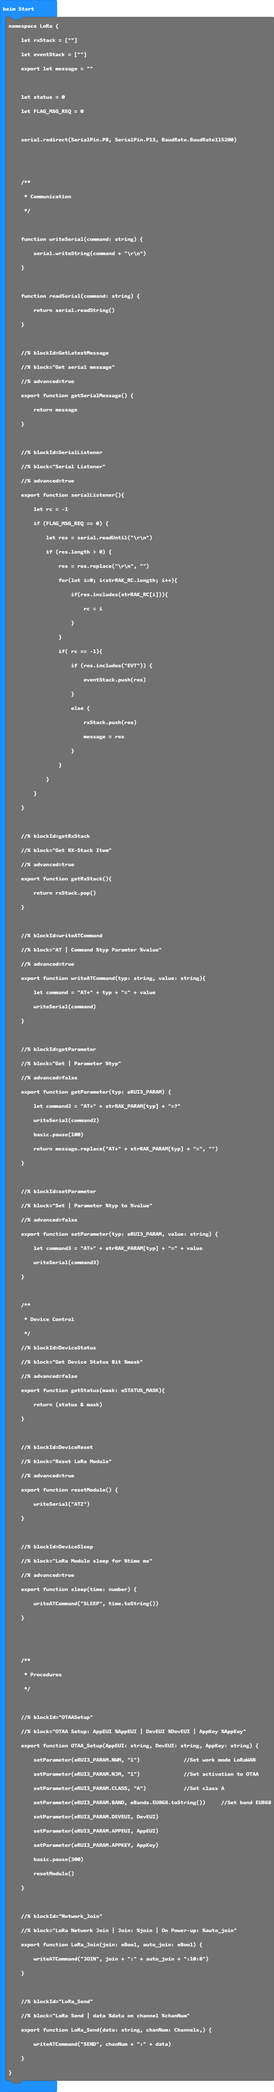
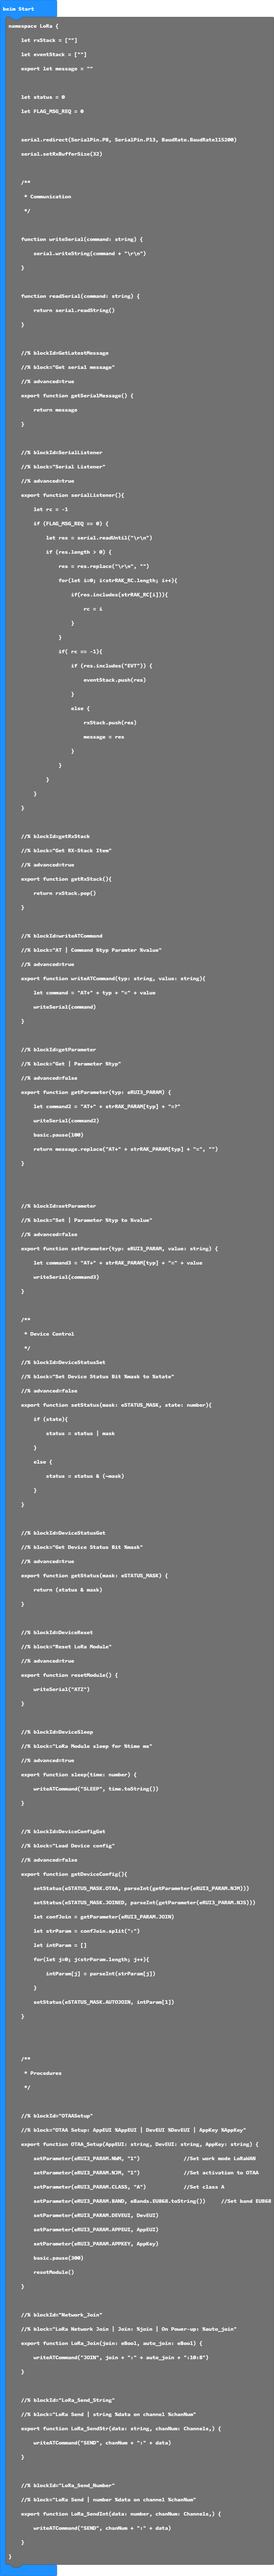
Improve status watchdog

diff --git a/main.ts b/main.ts
@@ -1,3 +1,10 @@
+/**
+ * RAK3172 LoRa Module
+ * GBS St. Gallen, 2022
+ */
+
+//% color="#00796b" icon="\uf1eb"
+
 namespace LoRa {
     let rxStack = [""]
     let eventStack = [""]
@@ -45,6 +52,9 @@ namespace LoRa {
                 if( rc == -1){
                     if (res.includes("EVT")) {
                         eventStack.push(res)
+                        if(res.includes("+EVT:JOINED")){
+                            setStatus(eSTATUS_MASK.JOINED, 1)
+                        }
                     }
                     else {
                         rxStack.push(res)
@@ -74,18 +84,20 @@ namespace LoRa {
     //% block="Get | Parameter %typ"
     //% advanced=false
     export function getParameter(typ: eRUI3_PARAM) {
-        let command = "AT+" + strRAK_PARAM[typ] + "=?"       
-        writeSerial(command)
-        basic.pause(100)
+        let command2 = "AT+" + strRAK_PARAM[typ] + "=?"       
+        basic.pause(30)
+        writeSerial(command2)
+        basic.pause(70)
         return message.replace("AT+" + strRAK_PARAM[typ] + "=", "")
     }
+
 
     //% blockId=setParameter
     //% block="Set | Parameter %typ to %value"
     //% advanced=false
     export function setParameter(typ: eRUI3_PARAM, value: string) {
-        let command = "AT+" + strRAK_PARAM[typ] + "=" + value
-        writeSerial(command)
+        let command3 = "AT+" + strRAK_PARAM[typ] + "=" + value
+        writeSerial(command3)
     }
 
     /**
@@ -133,11 +145,19 @@ namespace LoRa {
         let confJoin = getParameter(eRUI3_PARAM.JOIN)
         let strParam = confJoin.split(":")
         let intParam = []
-        for(let i=0; i<strParam.length; i++){
-            intParam[i] = parseInt(strParam[i])
+        for(let j=0; j<strParam.length; j++){
+            intParam[j] = parseInt(strParam[j])
         }
         setStatus(eSTATUS_MASK.AUTOJOIN, intParam[1])
     }
+
+    //% blockId=DeviceWatchdog
+    //% block="Watchdog"
+    //% advanced=false
+    export function watchdog() {
+        setStatus(eSTATUS_MASK.JOINED, parseInt(getParameter(eRUI3_PARAM.NJS)))
+    }
+
 
 
     /**
@@ -164,9 +184,15 @@ namespace LoRa {
         writeATCommand("JOIN", join + ":" + auto_join + ":10:8")
     }
 
-    //% blockId="LoRa_Send"
-    //% block="LoRa Send | data %data on channel %chanNum"
-    export function LoRa_Send(data: string, chanNum: Channels,) {
+    //% blockId="LoRa_Send_String"
+    //% block="LoRa Send | string %data on channel %chanNum"
+    export function LoRa_SendStr(data: string, chanNum: Channels,) {
+        writeATCommand("SEND", chanNum + ":" + data)
+    }
+
+    //% blockId="LoRa_Send_Number"
+    //% block="LoRa Send | number %data on channel %chanNum"
+    export function LoRa_SendInt(data: number, chanNum: Channels,) {
         writeATCommand("SEND", chanNum + ":" + data)
     }
 }
